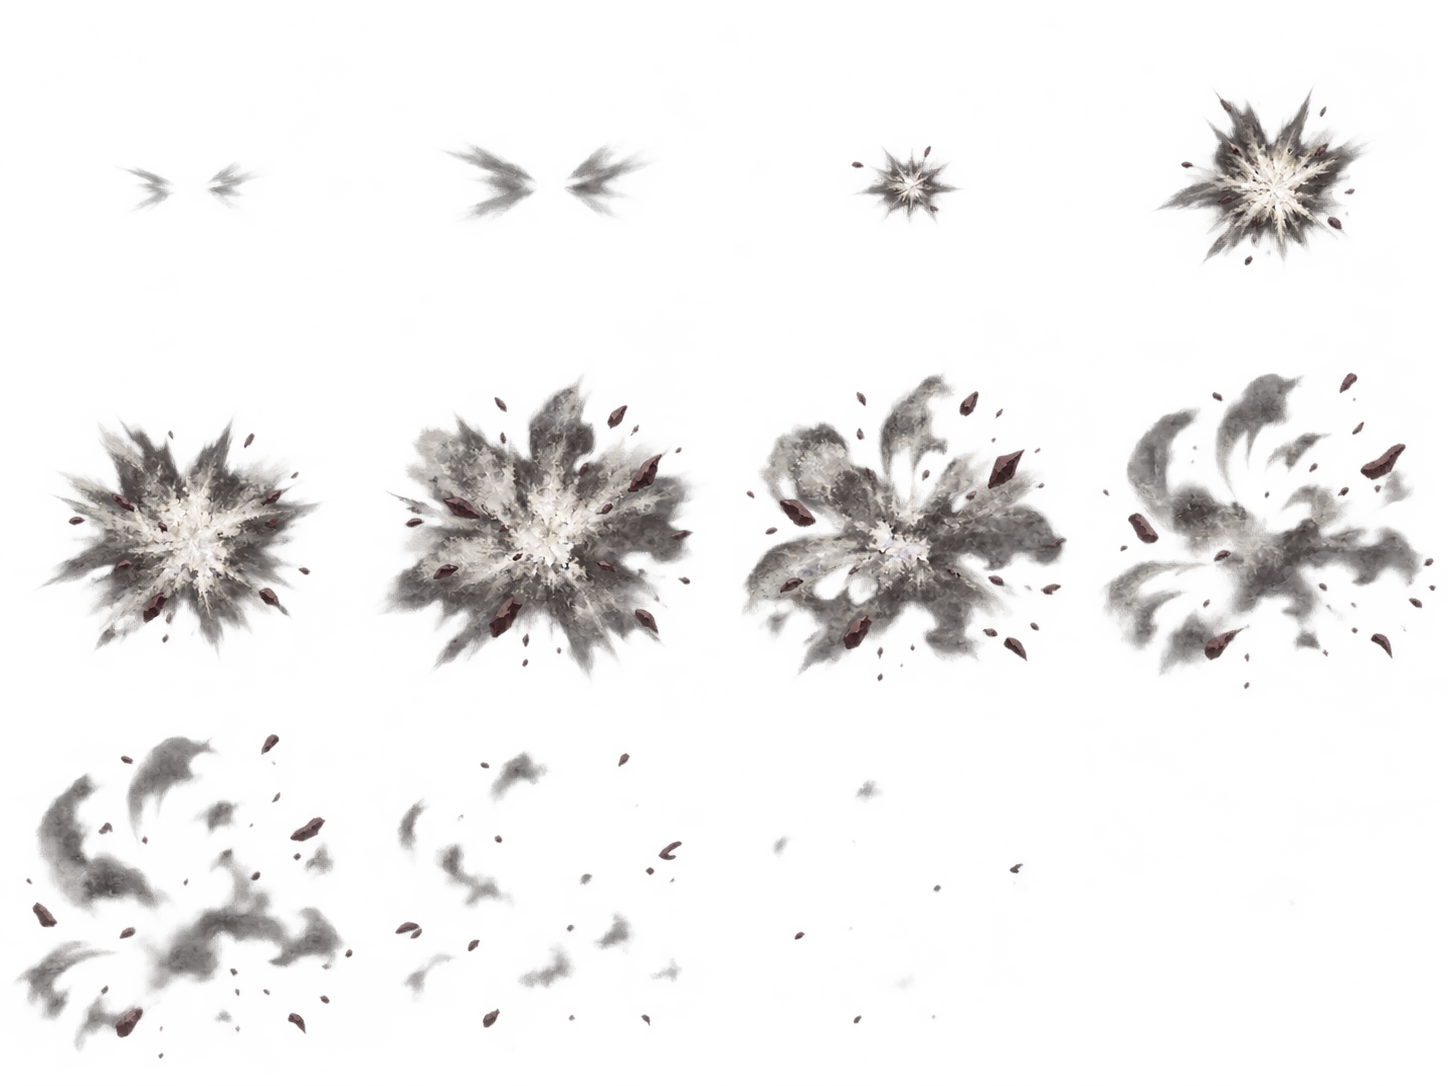
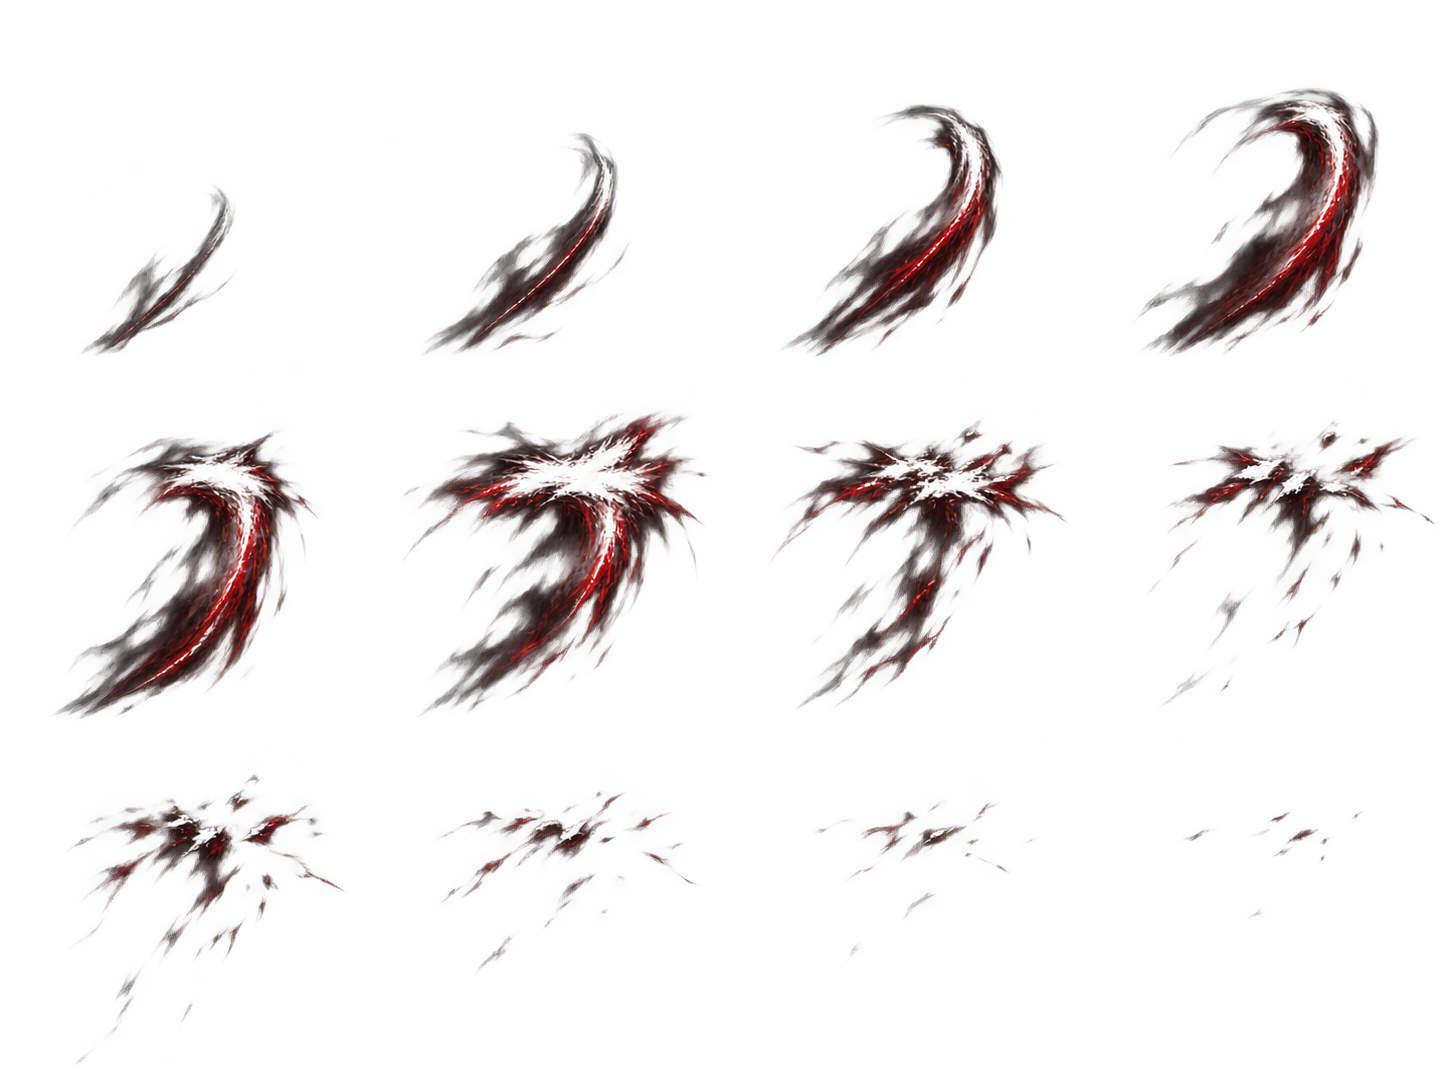
預覽：鈍擊整套重畫與實際遊戲有聲錄影

diff --git a/index.html b/index.html
@@ -6360,12 +6360,12 @@ function renderBluntVfx(fx){
   if(card){let canvas=card.querySelector('.zc-blunt-fx');if(!canvas){canvas=document.createElement('canvas');canvas.className='zc-blunt-fx';canvas.setAttribute('aria-hidden','true');card.appendChild(canvas)}
     const w=card.clientWidth,h=card.clientHeight,d=Math.min(window.devicePixelRatio||1,2);canvas.width=Math.round(w*d);canvas.height=Math.round(h*d);
     const ctx=canvas.getContext('2d');if(ctx){ctx.setTransform(d,0,0,d,0,0);ctx.clearRect(0,0,w,h);
-      const reduced=matchMedia('(prefers-reduced-motion:reduce)').matches,f=reduced?5:bluntFrame(elapsed),fin=card.querySelector('.fin'),hp=card.querySelector('.fhp .hpb'),size=Math.min(h*.8,(fin?fin.clientWidth:w*.6)*.75),hit=elapsed-BLUNT_TIMING.impact;
+      const reduced=matchMedia('(prefers-reduced-motion:reduce)').matches,f=reduced?5:bluntFrame(elapsed),fin=card.querySelector('.fin'),hp=card.querySelector('.fhp .hpb'),size=Math.min(h*1.2,(fin?fin.clientWidth:w*.6)*.95),hit=elapsed-BLUNT_TIMING.impact;
       let cx=w*.6,cy=h*.35;if(hp){cx=hp.offsetWidth/2;cy=hp.offsetHeight/2;for(let e=hp;e&&e!==card;e=e.offsetParent){cx+=e.offsetLeft;cy+=e.offsetTop}}
       if(fin){ctx.beginPath();ctx.rect(fin.offsetLeft,0,fin.clientWidth,h);ctx.clip()}
       fx.frame=f;
       ctx.globalAlpha=reduced?Math.min(1,elapsed/120)*Math.max(0,1-elapsed/BLUNT_TIMING.total):1;
-      if(f>=0)ctx.drawImage(BLUNT_VFX.image,f%4*362,Math.floor(f/4)*362,362,362,cx-size/2,cy-size/2,size,size);
+      if(f>=0)ctx.drawImage(BLUNT_VFX.image,f%4*362,Math.floor(f/4)*362,362,362,cx-size*.58,cy-size*.30,size,size);
       if(!reduced){card.classList.add('zc-blunt-react');const x=hit>=0?Math.sin(hit*.1)*Math.exp(-hit/65)*Math.min(5,w*.025):0;card.style.setProperty('--zc-blunt-x',x+'px')}
     }
   }

diff --git a/tools/blunt-preview-video.py b/tools/blunt-preview-video.py
@@ -1,0 +1,16 @@
+"""將實際瀏覽器逐格截圖與原遊戲錄音對時，產生預覽影片。"""
+import json, subprocess
+from pathlib import Path
+
+root = Path('qa-output/blunt-redesign').resolve()
+capture = json.loads((root / 'frames.json').read_text())
+frames = capture['frames']
+lines = []
+for i, frame in enumerate(frames):
+    lines.append("file '" + str(root / frame['file']) + "'")
+    duration = (frames[i+1]['at']-frame['at'])/1000 if i+1<len(frames) else .04
+    lines.append(f'duration {duration:.6f}')
+(root / 'frames.ffconcat').write_text('\n'.join(lines)+'\n')
+delay = (capture['audioStartAt']-frames[0]['at'])/1000
+audio_filter = f'adelay={round(delay*1000)}:all=1' if delay>=0 else f'atrim=start={-delay:.6f},asetpts=PTS-STARTPTS'
+subprocess.run(['ffmpeg','-hide_banner','-loglevel','warning','-y','-f','concat','-safe','0','-i',str(root/'frames.ffconcat'),'-i',str(root/'audio.webm'),'-filter_complex',f'[0:v]trim=start=1,setpts=PTS-STARTPTS,fps=30[v];[1:a]{audio_filter},atrim=start=1,asetpts=PTS-STARTPTS[a]','-map','[v]','-map','[a]','-c:v','libx264','-crf','17','-pix_fmt','yuv420p','-c:a','aac','-b:a','160k','-shortest','-movflags','+faststart',str(root/'blunt-redesign-gameplay.mp4')],check=True)

diff --git a/docs/BLUNT_REDESIGN_PREVIEW.md b/docs/BLUNT_REDESIGN_PREVIEW.md
@@ -1,0 +1,13 @@
+# 鈍擊整套重畫候選（未部署）
+
+基準：main dfb5c13，v0.45.1／Build 109。主人要求作廢先前鈍擊預覽。
+
+- 重新繪製十二格，上揮軌跡連接下緣，在血條位置撞停、碎散；黑紅白質感參照現有斬擊。
+- 固定圖集座標，不把整張圖往上移，不再使用前次預覽的血條壓扁、彈跳。
+- 沿用原鈍擊時序與 `sfx/fist.mp3` 音檔、音量；200ms更新血條。
+- 只在預覽分支替換素材與尺寸、接觸點定位。未變更戰鬥規則、版本與正式站。
+- 使用既有實際攻擊驗收腳本的副本錄製遊戲與原音，另記錄錄音起始時間以對時。
+- 固定骰點、敵人生命與暈眩僅在瀏覽器測試注入，不在遊戲本體。
+- 必須先交主人看實際有聲影片；未認可前不可合併。
+
+原設計規則變更：沒有。手機實機：待主人實機驗收。
